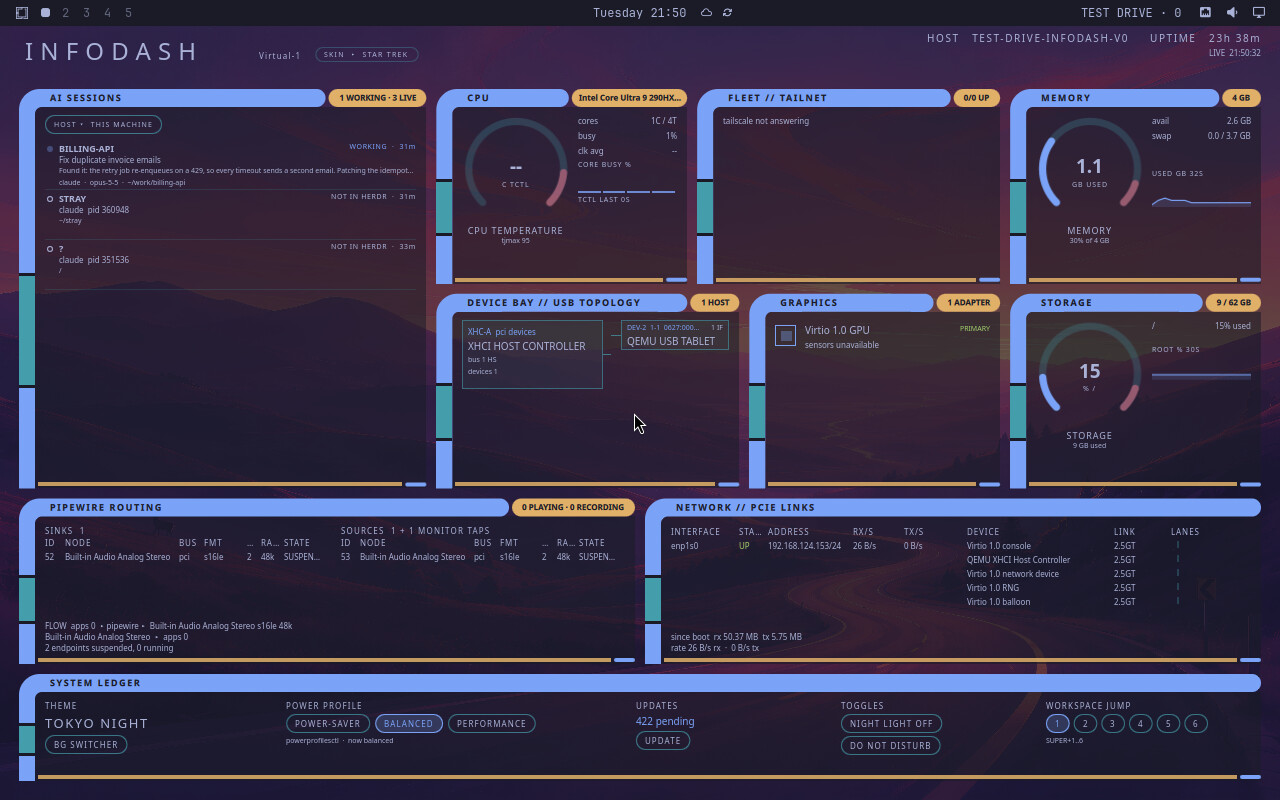
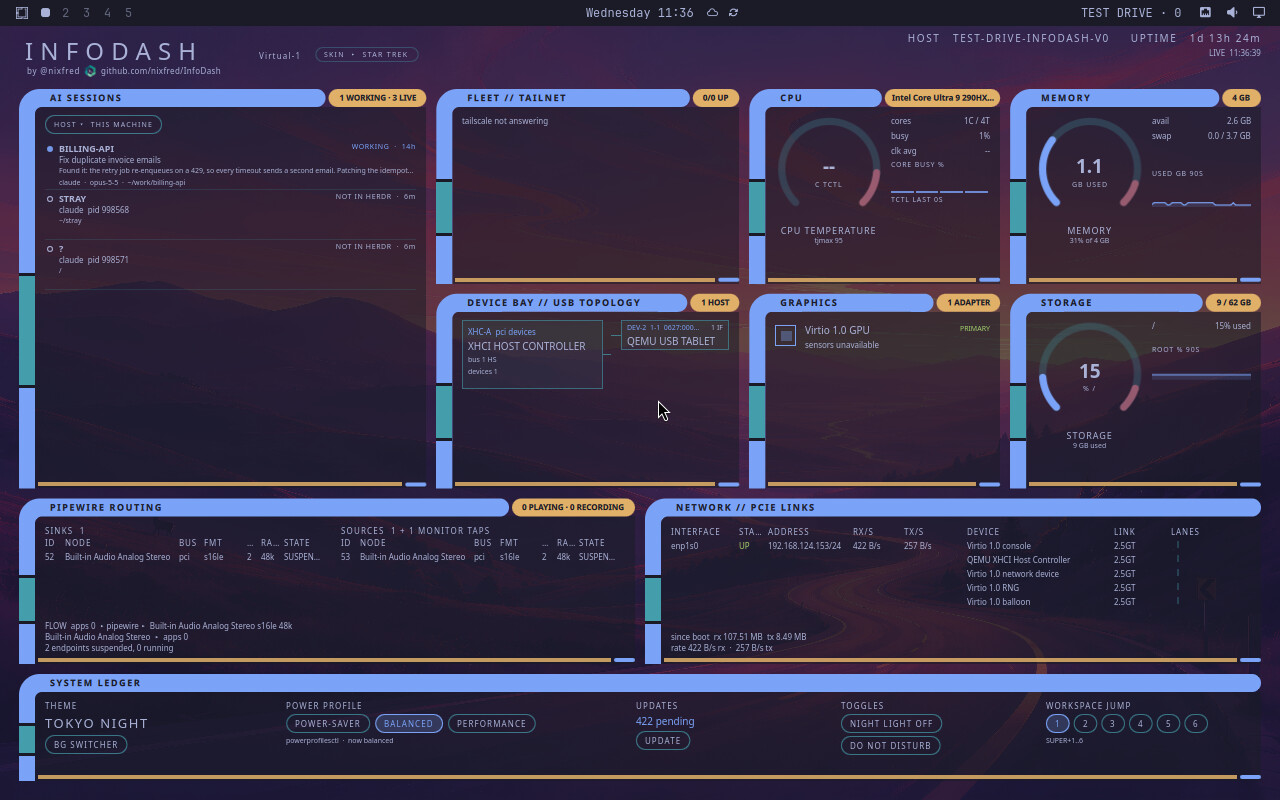
InfoDash 0.2.1: by @nixfred brand line, repo link, rewritten README
Header: under the INFODASH title a small "by @nixfred" with the nixfred mark
opens nixfred.com in the default browser, and the repo address
(github.com/nixfred/InfoDash) opens the project page. DashModel.openLink()
only ever opens those two exact addresses (xdg-open) and closes the summon
overlay so the browser is not hidden behind it. Verified by real clicks in
the Test Drive VM: both open Chromium on the right page.

README: banner with the mark, badges, hero screenshot, nine-skin gallery and
table, install and key-binding snippet, usage table, the 48 x 24 layout grid
drawn from the real Layout.js defaults, AI sessions anatomy and a click-to-jump
sequence diagram, settings and command reference, architecture diagram,
privacy notes, troubleshooting. Screenshots retaken with the new header.

Claude-Session: https://claude.ai/code/session_01BXN1v2S7mD2BgkyoXdDv95

diff --git a/DashView.qml b/DashView.qml
@@ -192,6 +192,34 @@ Item {
     // ---- header ----------------------------------------------------------------
     readonly property real hH: Math.round(60 * view.u)
     T { x: Math.round(8 * view.u); y: Math.round(4 * view.u); text: "INFODASH"; sz: 30; u: view.u; mono: view.mono; c: view.ink; font.letterSpacing: 9 * view.u; elide: Text.ElideNone }
+    // brand line: "by @nixfred" + mark opens nixfred.com, the repo address opens the project page
+    Item {
+      id: brand
+      x: Math.round(10 * view.u); y: Math.round(43 * view.u)
+      width: byText.implicitWidth + markImg.width + repoText.implicitWidth + Math.round(30 * view.u)
+      height: Math.round(15 * view.u)
+      Row {
+        spacing: Math.round(6 * view.u)
+        anchors.verticalCenter: parent.verticalCenter
+        Item {
+          width: byText.implicitWidth + markImg.width + Math.round(5 * view.u); height: Math.round(15 * view.u)
+          T { id: byText; anchors.verticalCenter: parent.verticalCenter; text: "by @nixfred"; sz: 10; u: view.u; mono: view.mono; c: view.ink; font.underline: siteHit.containsMouse; font.letterSpacing: 1 * view.u }
+          Image {
+            id: markImg
+            anchors.left: byText.right; anchors.leftMargin: Math.round(5 * view.u); anchors.verticalCenter: parent.verticalCenter
+            width: Math.round(15 * view.u); height: width
+            source: Qt.resolvedUrl("assets/nixfred-mark.png"); sourceSize: Qt.size(64, 64)
+            smooth: true; mipmap: true; asynchronous: true
+          }
+          MouseArea { id: siteHit; anchors.fill: parent; enabled: view.interactive; hoverEnabled: true; cursorShape: Qt.PointingHandCursor; onClicked: if (view.desk) view.desk.openLink("site") }
+        }
+        Item {
+          width: repoText.implicitWidth; height: Math.round(15 * view.u)
+          T { id: repoText; anchors.verticalCenter: parent.verticalCenter; text: "github.com/nixfred/InfoDash"; sz: 10; u: view.u; mono: view.mono; c: view.ink; font.underline: repoHit.containsMouse; font.letterSpacing: 0.5 * view.u }
+          MouseArea { id: repoHit; anchors.fill: parent; enabled: view.interactive; hoverEnabled: true; cursorShape: Qt.PointingHandCursor; onClicked: if (view.desk) view.desk.openLink("repo") }
+        }
+      }
+    }
     T { id: screenLabel; x: Math.round(300 * view.u); y: Math.round(24 * view.u); text: view.screenName; sz: 10; u: view.u; mono: view.mono; c: view.dim; font.letterSpacing: 1.5 * view.u }
     // skin switcher: quiet chip beside the monitor name, strip opens on click
     MouseArea { anchors.fill: parent; z: 90; visible: picker.open || view.hostMenuOpen; onClicked: { picker.open = false; view.hostMenuOpen = false } }

diff --git a/DashModel.qml b/DashModel.qml
@@ -19,7 +19,7 @@ Item {
   property bool ready: false
   property string error: ""
   readonly property string collectorPath: Qt.resolvedUrl("collector.ts").toString().replace(/^file:\/\//, "")
-  readonly property string version: "0.2.0"
+  readonly property string version: "0.2.1"
 
   // --- layout store ------------------------------------------------------------
   // One file for every monitor: { "version": 1, "screens": { "DP-3": { panelId: {x,y,w,h} } } }.
@@ -176,6 +176,15 @@ Item {
   // open in herdr nothing happens (its row is not clickable, and herdr refuses an unknown pane).
   property string focusHost: ""
   signal focusJumped()
+  // The two links in the header. Only these exact addresses are ever opened, in the default browser;
+  // the summon overlay closes so the browser is not hidden behind it.
+  readonly property var links: ({ site: "https://nixfred.com", repo: "https://github.com/nixfred/InfoDash" })
+  function openLink(which) {
+    var url = root.links[which]
+    if (!url) return
+    Quickshell.execDetached(["xdg-open", url])
+    root.focusJumped()
+  }
   Process {
     id: aiFocus
     onExited: function(code) { if (code === 0 && !winFind.running) winFind.running = true }

diff --git a/README.md b/README.md
@@ -1,79 +1,249 @@
-# InfoDash
+<p align="center">
+  <img src="docs/banner.svg" alt="InfoDash by nixfred: a live HUD for the Omarchy desktop" width="100%">
+</p>
 
-A live system HUD for the [Omarchy](https://omarchy.org) desktop. InfoDash paints your wallpaper and a full dashboard on top of it: CPU, memory, GPU and storage gauges, USB device topology, network and PCIe links, PipeWire routing, tailnet hosts, and the AI coding sessions running on this machine or on any other machine you can ssh to. One keypress summons it over your windows.
+<p align="center">
+  <a href="LICENSE"><img alt="MIT license" src="https://img.shields.io/badge/license-MIT-52ca9a?style=flat-square"></a>
+  <img alt="Omarchy plugin" src="https://img.shields.io/badge/Omarchy-plugin-0c9793?style=flat-square">
+  <img alt="Quickshell" src="https://img.shields.io/badge/Quickshell-QML-17a07e?style=flat-square">
+  <img alt="bun" src="https://img.shields.io/badge/collector-bun-89e0b7?style=flat-square">
+  <img alt="33 tests" src="https://img.shields.io/badge/tests-33%20passing-52ca9a?style=flat-square">
+</p>
 
-![InfoDash, Star Trek skin](docs/infodash-startrek.jpg)
+**InfoDash** paints a full live dashboard over your [Omarchy](https://omarchy.org) wallpaper: CPU, memory, GPU and storage gauges, USB topology, network and PCIe links, PipeWire routing, your tailnet, and the **AI coding sessions** running on this machine or on any other machine you can ssh to. One key hides your windows behind it. Another key shows or hides the panels.
 
-**Colours always follow your Omarchy theme.** Skins change shape, type and gauge style, never colour.
+![InfoDash on the Star Trek skin](docs/infodash-startrek.jpg)
 
-## Features
+> **Colours always follow your Omarchy theme.** Skins change the shape, the type and the gauge style. They never choose a colour, so every theme switch restyles the whole dashboard.
 
-- **Nine skins**: Star Trek (default), Cyberpunk, Steampunk, Art Deco, 8-bit, Blueprint, Nostromo, Cassette, Diesel. Pick one from the small chip in the header.
-- **Drag and snap layout**: hold `CTRL` and drag a panel to move it, drag an edge or corner to resize it. Panels snap to a 48 x 24 grid and push each other out of the way. The layout is saved per monitor.
-- **AI sessions panel**: every agent session (Claude Code, Codex and others) with its status, title, model and last message. Point it at another tailnet machine from the host picker. With herdr, clicking a session focuses it there and jumps your focus to the herdr window. A session that is not open in herdr is shown dimmed and is not clickable.
-- **Summon overlay**: a fullscreen twin of the dashboard for when windows cover the desktop.
-- **Its own text size**: a size control for InfoDash, independent of the system font size.
-- **Read-only**: the collector only reads `/proc`, `/sys` and a few status commands.
+---
+
+## What you get
+
+| | |
+|---|---|
+| **Nine skins** | Star Trek (the default), Cyberpunk, Steampunk, Art Deco, 8-bit, Blueprint, Nostromo, Cassette, Diesel. One small chip in the header switches them. |
+| **Drag and snap layout** | Hold `CTRL`, drag a panel to move it, drag an edge or corner to resize it. It snaps to a 48 x 24 grid and the other panels slide out of the way. Saved per monitor. |
+| **AI sessions on any host** | Every Claude Code, Codex and other agent session with its status, title, model and last message. Point the panel at any tailnet machine from the host picker. |
+| **Click to jump** | With [herdr](https://github.com/ogulcancelik/herdr), clicking a session selects it in herdr and moves *your* focus to the herdr window. A session that is not open in herdr is shown but does nothing. |
+| **Summon overlay** | A fullscreen twin of the dashboard that appears over whatever you are doing, and a clear-desk mode that hides the current app behind it. |
+| **Its own text size** | A text size control for InfoDash alone (80% to 150%), separate from the system font. |
+| **One brightness** | All text is the same brightness. Hierarchy comes from size, weight and caps, never from dimming. |
+| **Read-only** | The collector only reads `/proc`, `/sys` and a few status commands. It writes nothing outside its own settings folder. |
+
+## The nine skins
 
 ![All nine skins](docs/infodash-skins.jpg)
 
-## Requirements
+| Skin | Look |
+|---|---|
+| **Star Trek** (default) | Rounded elbows and pills, ring gauges |
+| **Cyberpunk** | Chamfered corners, hazard stripes, arc gauges |
+| **Steampunk** | Riveted plates, a gear banner, needle gauges |
+| **Art Deco** | Stepped corners, sunburst, fan gauges |
+| **8-bit** | Pixel borders, block-chain gauges |
+| **Blueprint** | Drafting grid, dimension lines, a title block |
+| **Nostromo** | CRT box with scanlines, block-bar gauges |
+| **Cassette** | Bezel, screws, label strip, knob gauges |
+| **Diesel** | Steel plate, rivets, data plate, needle gauges |
 
-- Omarchy (Hyprland with the Lua config, and Quickshell) with the plugin system enabled
-- [bun](https://bun.sh) for the collector
-- Optional: `tailscale` (fleet panel and remote AI sessions), `nvidia-smi` (NVIDIA GPUs), `pactl` (PipeWire panel), `herdr` (click to focus)
+Pick one from the `SKIN` chip next to the monitor name. The strip is an even grid, hover shows a one-line hint, and `Esc` closes it. From a key binding: `omarchy-shell infodash cycleSkin`.
+
+---
 
 ## Install
+
+You need Omarchy (Hyprland with the Lua config, plus Quickshell) with the plugin system enabled, and [bun](https://bun.sh) for the collector.
 
 ```sh
 git clone https://github.com/nixfred/InfoDash ~/.config/omarchy/plugins/nixfred.infodash
 omarchy plugin enable nixfred.infodash
 ```
 
-While enabled, InfoDash replaces the stock background plugin; disabling it restores the stock one. To update, `git pull` in the plugin directory and restart the shell (`omarchy restart shell`).
+While it is enabled, InfoDash replaces the stock background plugin. Disabling it (`omarchy plugin disable nixfred.infodash`) restores the stock one.
 
-## Use
+### Bind two keys
+
+Add these to `~/.config/hypr/bindings.lua`, with any keys you like:
+
+```lua
+o.bind("SUPER + D", "InfoDash: hide the app / bring it back", "omarchy-shell shell toggle nixfred.infodash '{}'")
+o.bind("SUPER + I", "InfoDash: show/hide the panels",         "omarchy-shell infodash toggleDashboard")
+```
+
+| Key | What it does |
+|---|---|
+| `SUPER + D` | Hides the app you are in behind a clear background with InfoDash on it. Press again to bring the app back. |
+| `SUPER + I` | Shows or hides only the InfoDash panels, on whichever layer is up. It never brings the app back. |
+
+### Update
+
+```sh
+git -C ~/.config/omarchy/plugins/nixfred.infodash pull
+omarchy restart shell
+```
+
+### Optional extras
+
+InfoDash shows what it can find and skips the rest.
+
+| Tool | Used for |
+|---|---|
+| `tailscale` | the fleet panel, and AI sessions from other machines |
+| `nvidia-smi` | NVIDIA GPU panel |
+| `pactl` | the PipeWire panel |
+| `checkupdates` | the pending-updates count |
+| `herdr` | click a session to jump to it |
+
+---
+
+## Using it
 
 | Action | How |
 |---|---|
-| Hide the current app behind a clear background with InfoDash (and bring it back) | bind a key to `omarchy-shell shell toggle nixfred.infodash '{}'` |
-| Show or hide the InfoDash panels | bind a key to `omarchy-shell infodash toggleDashboard` |
-| Move a panel | hold `CTRL`, drag the panel |
+| Move a panel | hold `CTRL`, drag it |
 | Resize a panel | hold `CTRL`, drag an edge or corner |
 | Cancel a drag | `Esc` |
 | Reset the layout | `CTRL` + double-click the title |
 | Change skin or text size | click the `SKIN` chip in the header |
-| Next or previous skin | `omarchy-shell infodash cycleSkin` / `prevSkin` |
-| Choose the machine whose AI sessions are shown | the `HOST` chip in the AI SESSIONS panel |
+| Show the AI sessions of another machine | the `HOST` chip in the AI SESSIONS panel |
+| Open the project page | click the repo address under the title |
+| Open nixfred.com | click `by @nixfred` |
 
-Other commands: `setSkin <id>`, `setFontScale <0.8-1.5>`, `setAiHost <name>`, `aiSessions`, `status`.
+### The layout grid
+
+Panels live on a 48 x 24 grid. Move one onto another and the other slides aside; resize one and its neighbours make room. The default layout:
+
+![The 48 x 24 grid with the default panel layout](docs/layout-grid.svg)
+
+The layout is stored once per monitor and shared by every skin, so switching skins never rearranges your desk.
+
+---
+
+## AI sessions
+
+The biggest panel is a live list of your coding agents. Each row shows:
+
+1. the herdr workspace name and the status (`BLOCKED`, `WORKING`, `IDLE`, `DONE`) with how long ago it last moved
+2. the session title
+3. the last thing the agent said (a short snippet from its transcript)
+4. the agent, model and working folder
+
+Rows are ordered blocked, then working, then idle, then done, newest first. Agent processes that herdr does not know about appear as `NOT IN HERDR` rows.
+
+**Looking at another machine.** Click the `HOST` chip and pick any machine on your tailnet. InfoDash runs the scan there over `ssh` (a persistent, non-interactive connection), so you can watch the work happening on a build box while you sit at your laptop.
+
+**Click to jump.** Clicking a row that is open in herdr does two things: it selects that session in herdr on the machine where it runs, then finds the herdr window on *your* machine and focuses it. If the session is not in herdr, nothing happens (InfoDash never opens one for you).
+
+```mermaid
+sequenceDiagram
+    participant You
+    participant InfoDash
+    participant Host as Scanned host (local or ssh)
+    participant Hypr as Hyprland (your desktop)
+    You->>InfoDash: click a session row
+    InfoDash->>Host: herdr agent focus <pane>
+    Host-->>InfoDash: ok (the pane is open in herdr)
+    InfoDash->>Hypr: find the herdr client window
+    Hypr-->>InfoDash: window address
+    InfoDash->>Hypr: focus that window
+    Note over You,Hypr: your focus now sits on herdr, with the session selected
+```
+
+The window is found by what is running inside it (a herdr client, or an `ssh` to that host), never by its title alone, because any web page can set a window title.
+
+---
 
 ## Settings
 
-`~/.config/omarchy/infodash/settings.json` (written by the UI; delete it to start over):
+`~/.config/omarchy/infodash/settings.json`, written by the UI (delete it to start over):
 
 | Key | Meaning |
 |---|---|
 | `skin` | one of `startrek cyberpunk steampunk deco 8bit blueprint nostromo cassette diesel` |
 | `fontScale` | InfoDash text and UI size, 0.8 to 1.5 |
-| `aiHost` | tailnet host whose AI sessions are shown, empty for this machine |
+| `aiHost` | tailnet host whose AI sessions are shown; empty means this machine |
 | `fleet` | optional list of tailnet host names to pin in the fleet panel (default: the first 8 peers) |
 | `snippetStrip` | optional regular expression removed from the start of each last-message snippet, for agents that begin every reply with a banner |
 
 Panel layouts are in `layout.json` in the same folder, one layout per monitor name.
 
-## AI sessions and privacy
+### Command line
 
-The panel scans the chosen machine (`scan.sh`, plain POSIX sh) for herdr agents and agent processes, and reads the last assistant message of each Claude Code session from its transcript under `~/.claude/projects`. A short snippet of it is shown on your desktop and cached under `~/.cache/infodash` (mode 0600) on the scanned machine; entries older than a week are pruned. Remote scans use your normal ssh setup with `BatchMode`, so they never prompt and never store a password. They run with agent, X11 and port forwarding disabled, under a timeout, with the output size capped.
+Everything is scriptable through `omarchy-shell infodash <command>`:
+
+| Command | Does |
+|---|---|
+| `toggleDashboard` | show or hide the panels |
+| `setDashboardVisible <on/off>` | set it explicitly |
+| `setSkin <id>` / `getSkin` | choose or read the skin |
+| `cycleSkin` / `prevSkin` | next or previous skin |
+| `listSkins` | all skins, as JSON |
+| `setFontScale <0.8-1.5>` / `getFontScale` | text size |
+| `setAiHost <name>` / `getAiHost` | which machine the AI panel watches |
+| `aiSessions` | the current session list, as JSON |
+| `focusAi <pane>` | jump to a herdr pane, same as clicking its row |
+| `status` | version, skin, host and health, as JSON |
+
+---
+
+## How it works
+
+```mermaid
+flowchart LR
+    subgraph local[Your machine]
+      C[collector.ts<br/>bun, every 2 s] -->|JSON| M[DashModel.qml<br/>state, settings, layout]
+      M --> D[Desk<br/>behind your windows]
+      M --> O[Overlay<br/>SUPER + D]
+      S[(settings.json<br/>layout.json)] <--> M
+    end
+    SC[scan.sh<br/>POSIX sh] -->|local| M
+    SC -.->|ssh, BatchMode| R[(Any tailnet host)]
+    R -.-> M
+    M -->|herdr agent focus| H[herdr]
+```
+
+- **`collector.ts`** reads `/proc`, `/sys` and a few commands and prints one JSON snapshot every two seconds. It exits when the shell that started it goes away.
+- **`DashModel.qml`** holds everything the views share: colours from your Omarchy theme, settings, layouts, the AI scan.
+- **The desk** is a layer-shell surface behind your windows; **the overlay** is a fullscreen surface above them. Both draw the same view and share the same state.
+- **`Layout.js`** is the grid engine (pure functions, unit-tested), **`Skins.js`** the skin registry (one `Skin*.qml` frame per skin), **`Ai.js`** and **`scan.sh`** the session scan and parsing.
+
+---
+
+## Privacy and security
+
+- The AI panel reads the **last assistant message** of each Claude Code session from its transcript on the machine being scanned and shows a short snippet on your desktop. The snippet is cached under `~/.cache/infodash` (mode `0600`) on the scanned machine and pruned after a week.
+- Remote scans use your normal ssh setup with `BatchMode`: they never prompt and never store a password. They run with agent, X11 and port forwarding off, under a timeout, with the output size capped.
+- Text that came from a transcript or a remote machine is shown as plain text, with control and bidirectional-override characters removed.
+- The two header links open only the addresses written in the code, in your default browser.
+- The collector never writes outside its settings folder and the runtime directory.
+
+## Troubleshooting
+
+| Problem | Try |
+|---|---|
+| The panels show `COLLECTING...` | check that `bun` is installed (`which bun`) and run `omarchy restart shell` |
+| `UPDATING` instead of `LIVE` | the collector missed a tick; it recovers on its own, `omarchy restart shell` if it does not |
+| AI sessions panel is empty on another host | check that plain `ssh <host>` works without a prompt (key auth), and that the host runs herdr or an agent |
+| Clicking a session does nothing | the session is not open in herdr, or herdr is not installed on that host |
+| Text too small or too large | `SKIN` chip, then `A-` / `A+` (80% to 150%) |
+| Panels in the wrong place | `CTRL` + double-click the title to reset the layout |
+| Want the stock wallpaper back | `omarchy plugin disable nixfred.infodash` |
+
+`qs log` shows the shell's messages; look for lines naming `nixfred.infodash`.
 
 ## Development
 
 ```sh
-bun test           # layout engine, AI-session parsing, window matching, the scan script
+bun test      # layout engine, AI-session parsing, window matching, the scan script
 ```
 
-QML plus a small bun collector (`collector.ts`). `Layout.js` is the grid engine, `Skins.js` the skin registry (one `Skin*.qml` frame per skin), `Ai.js` and `scan.sh` the session scan and parsing. Test changes in a throwaway VM before your desktop; the plugin cannot be verified from unit tests alone.
+QML plus a small bun collector. The plugin cannot be verified by unit tests alone: try changes in a throwaway Omarchy VM before your desktop. Pull requests and issues are welcome at [github.com/nixfred/InfoDash](https://github.com/nixfred/InfoDash).
+
+## Credits
+
+Built by [@nixfred](https://nixfred.com). Started from the overlay and wallpaper code of [Infomarchy](https://github.com/nixfred/infomarchy).
 
 ## License
 
-MIT. Started from the overlay and wallpaper code of [Infomarchy](https://github.com/nixfred/infomarchy).
+MIT, see [LICENSE](LICENSE).
